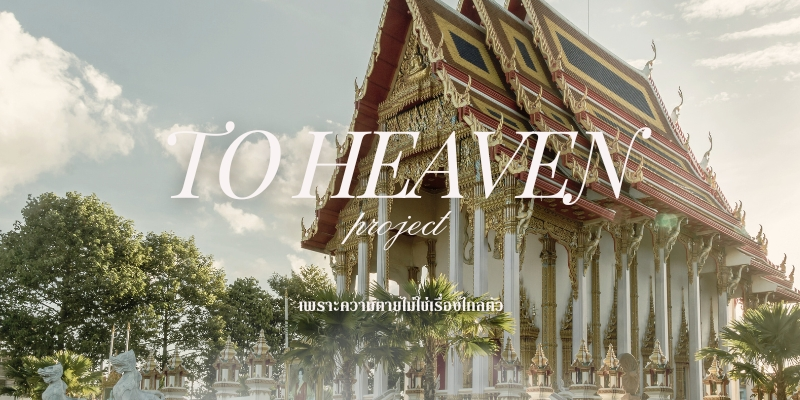
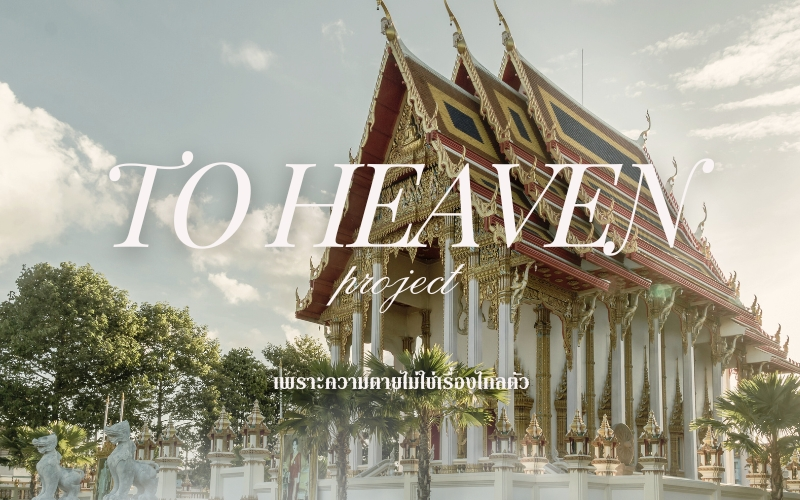
update home

diff --git a/src/ToHeaven/Home.java b/src/ToHeaven/Home.java
@@ -33,19 +33,17 @@ public class Home extends javax.swing.JPanel {
         HomeBackGround = new javax.swing.JLabel();
 
         setBackground(new java.awt.Color(242, 245, 231));
-        setPreferredSize(new java.awt.Dimension(800, 400));
+        setPreferredSize(new java.awt.Dimension(800, 500));
 
         HomeBackGround.setFont(new java.awt.Font("TH Sarabun New", 0, 12)); // NOI18N
         HomeBackGround.setIcon(new javax.swing.ImageIcon("C:\\Users\\ASUS\\Desktop\\SoftwareProjectKhim\\src\\to_heaven.jpg")); // NOI18N
-        HomeBackGround.setMinimumSize(new java.awt.Dimension(800, 400));
-        HomeBackGround.setPreferredSize(new java.awt.Dimension(800, 400));
 
         javax.swing.GroupLayout layout = new javax.swing.GroupLayout(this);
         this.setLayout(layout);
         layout.setHorizontalGroup(
             layout.createParallelGroup(javax.swing.GroupLayout.Alignment.LEADING)
             .addGroup(javax.swing.GroupLayout.Alignment.TRAILING, layout.createSequentialGroup()
-                .addComponent(HomeBackGround, javax.swing.GroupLayout.PREFERRED_SIZE, javax.swing.GroupLayout.DEFAULT_SIZE, javax.swing.GroupLayout.PREFERRED_SIZE)
+                .addComponent(HomeBackGround)
                 .addGap(0, 0, Short.MAX_VALUE))
         );
         layout.setVerticalGroup(
